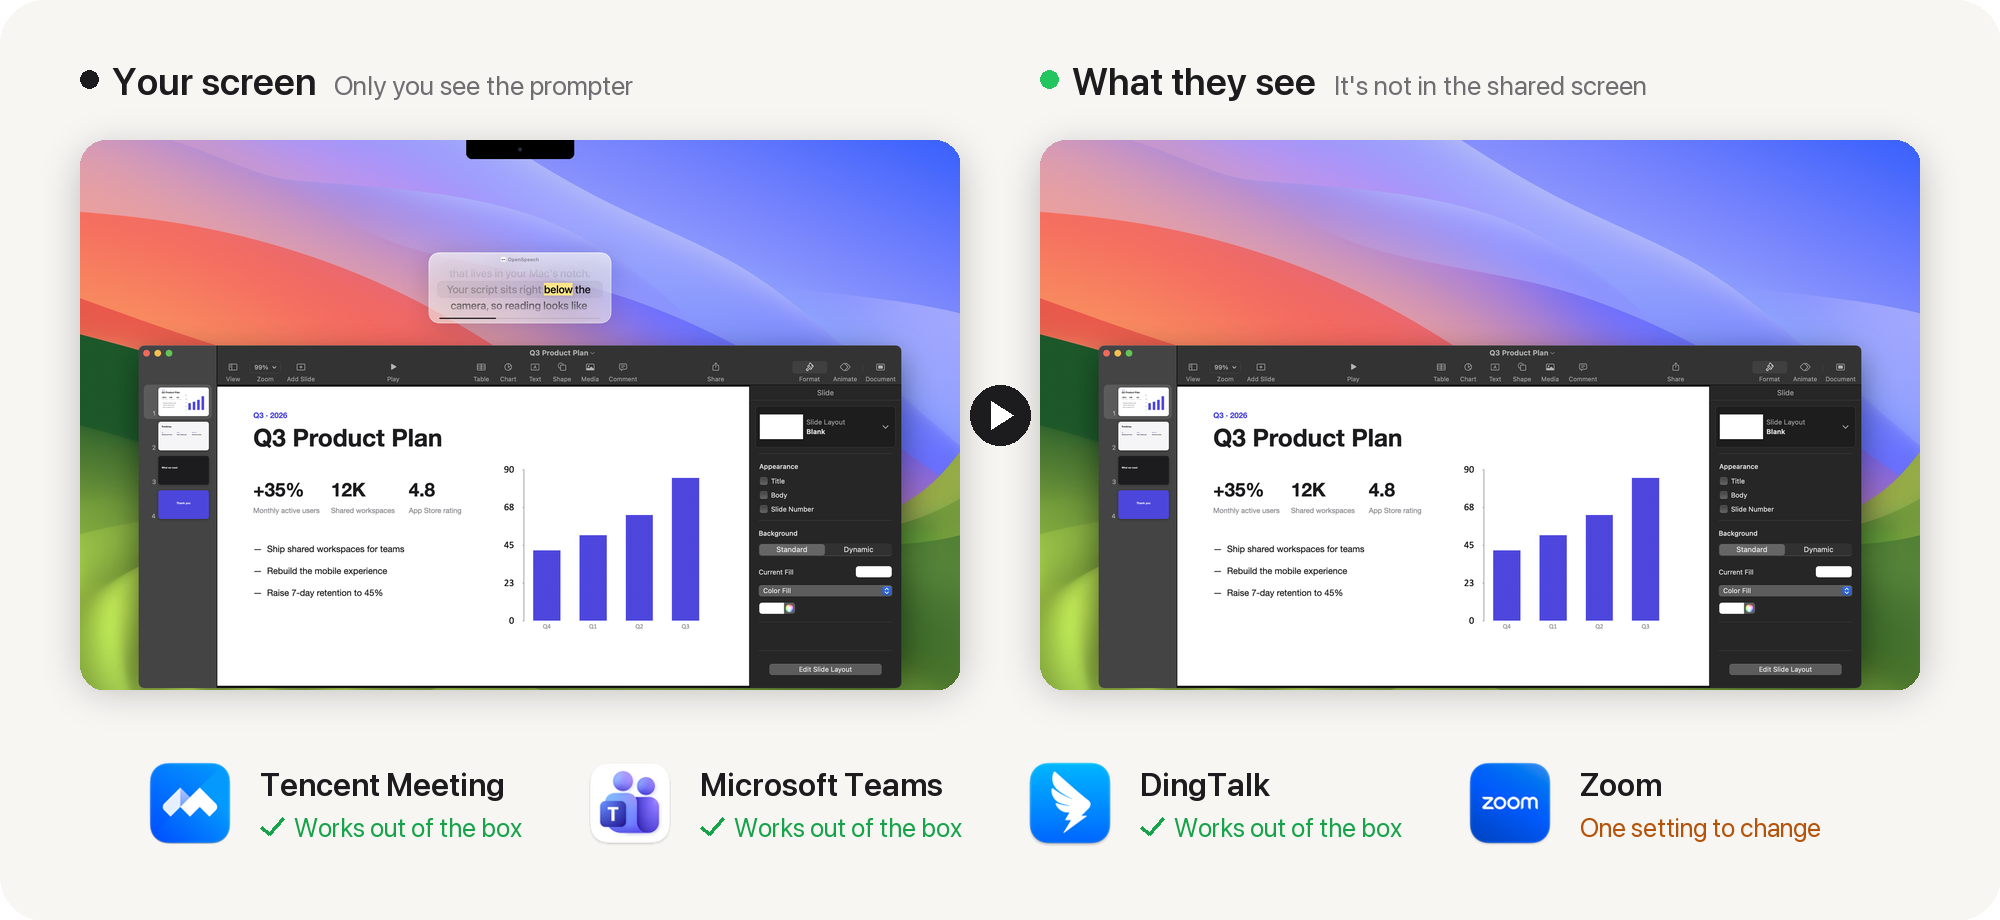
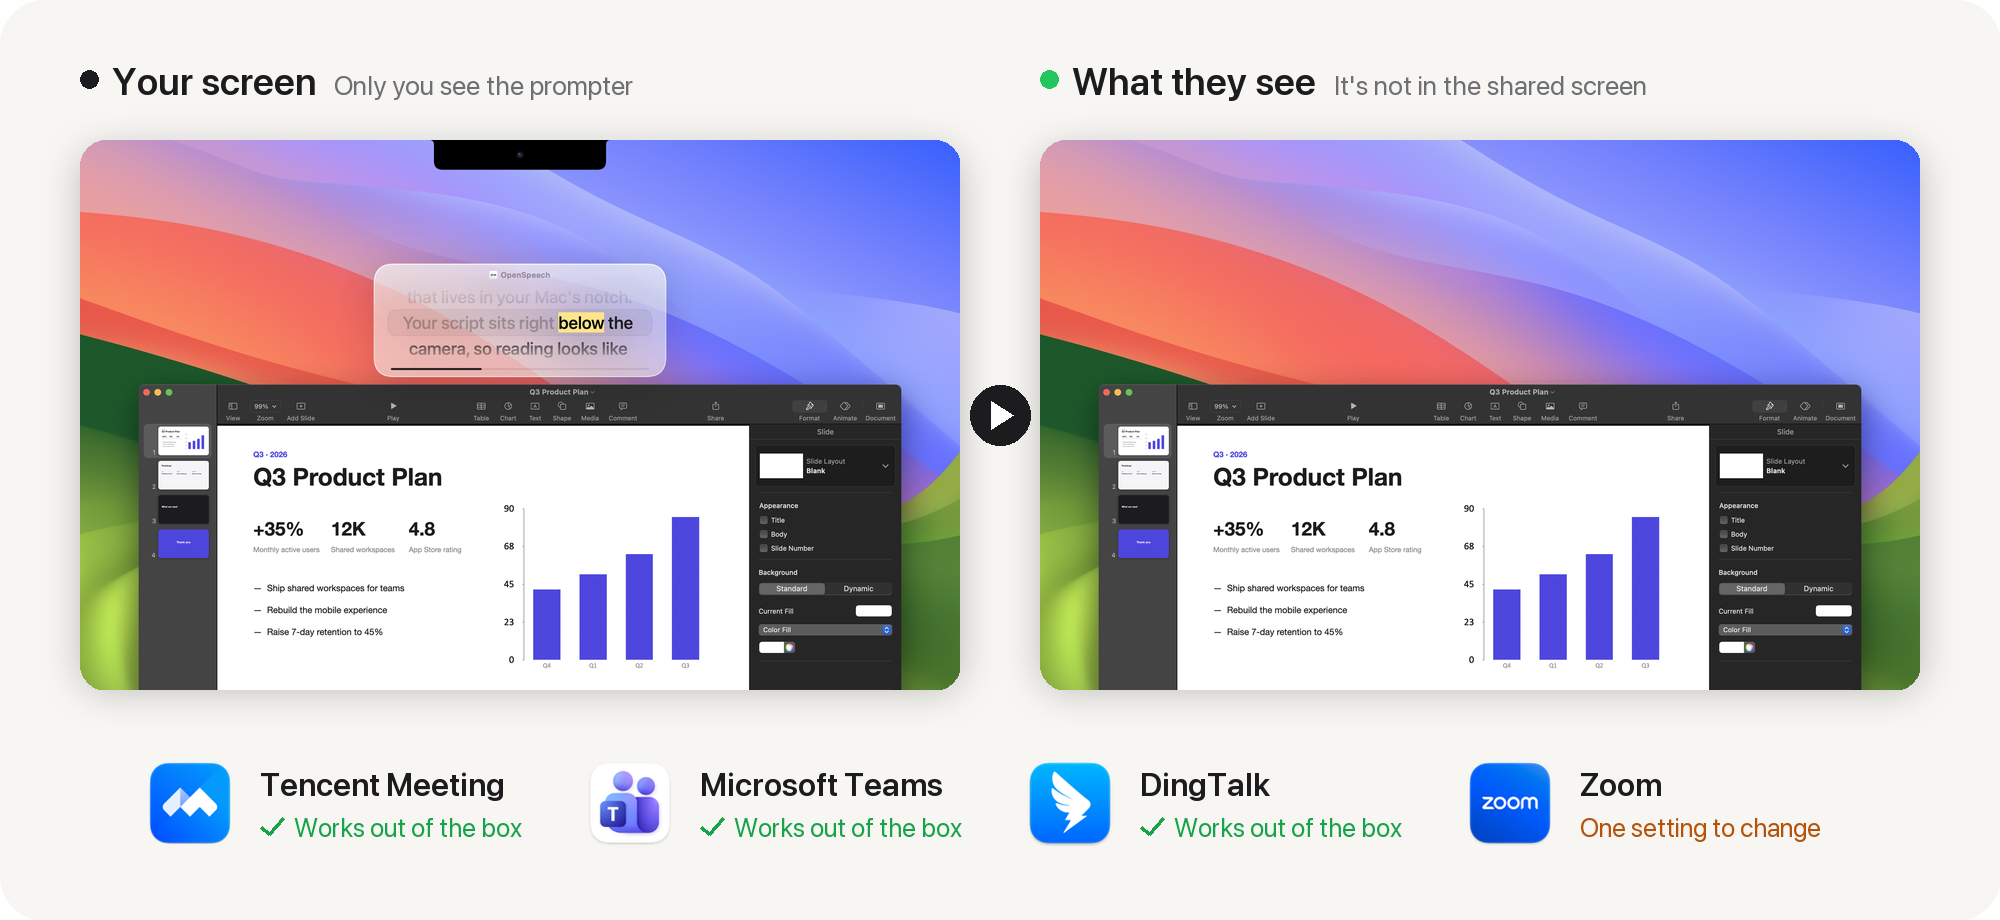
README images: zoom in, keep the card close under the notch
Render a narrower frame so the card is readable, and shorten the
card-to-notch distance in proportion to the frame width
(readmeZoom), so it still looks the way it sits on a full screen.

Changed region(s): [[0.062, 0.2739, 0.465, 0.7609], [0.527, 0.3652, 0.961, 0.7609], [0.217, 0.1522, 0.31, 0.1826]]

diff --git a/Sources/ReadmeVideo.swift b/Sources/ReadmeVideo.swift
@@ -131,8 +131,8 @@ enum ReadmeVideo {
         follow.read(zh ? "它不会乱跳等你回到稿子再接着走" : "holds still until you come back", rate: normal, .normal)
         follow.hold(1.4, .normal)
 
-        render(eye, name: "eye", dir: dir, script: pitch, size: CGSize(width: 1800, height: 560), camera: true, annotate: true, pill: false)
-        render(follow, name: "follow", dir: dir, script: pitch, size: CGSize(width: 1800, height: 560), camera: true, annotate: false, pill: true)
+        render(eye, name: "eye", dir: dir, script: pitch, size: CGSize(width: 1000, height: 560), camera: true, annotate: true, pill: false)
+        render(follow, name: "follow", dir: dir, script: pitch, size: CGSize(width: 1000, height: 560), camera: true, annotate: false, pill: true)
     }
 
     @MainActor
@@ -159,6 +159,7 @@ enum ReadmeVideo {
         model.panelSize = size
         model.snapshot = true
         model.hideIsland = true
+        settings.readmeZoom(model: model)
         let card = IslandMetrics.layout(engine: engine, model: model, settings: settings).card ?? .zero
         let store = ScriptStore(inMemory: true)
         let actions = IslandActions(start: {}, openLibrary: {}, importURLs: { _ in }, cycleScript: { _ in }, resetPosition: {})
@@ -184,7 +185,7 @@ enum ReadmeVideo {
                 if pill {
                     MomentPill(moment: m, levels: levels, speed: speed(m), fade: fade)
                         .frame(width: size.width)
-                        .offset(y: card.maxY + 30)
+                        .offset(y: card.maxY + 20)
                 }
             }
             .frame(width: size.width, height: size.height)
@@ -211,15 +212,26 @@ enum ReadmeVideo {
     }
 }
 
+extension PrompterSettings {
+    /// README 的图比整块屏幕窄（相当于放大看）：卡片和刘海按原尺寸画，
+    /// 卡片离刘海的距离按画面宽度等比例缩短，看起来和在整块屏幕上一样贴着镜头
+    func readmeZoom(model: IslandModel, screenWidth: CGFloat = 1800) {
+        let read = IslandMetrics.cardSize(self).readOffset
+        let realTop = IslandMetrics.defaultPosition(model.geo).readY - read
+        let gap = (realTop - model.notch.height) * model.panelSize.width / screenWidth
+        setPosition(CardPosition(dx: 0, readY: model.notch.height + gap + read), for: model.screenKey)
+    }
+}
+
 /// 屏幕顶上的硬件刘海，里面淡淡一颗摄像头，旁边标注 “摄像头”；
 /// annotate 时再画出视线和 “≈ 5°”：卡片正在读的那一行就在镜头下面约 5°。
-/// README 里整块屏幕宽的图会缩小到一半左右显示，所以标注文字画得比界面大
 struct CameraGuide: View {
     let notch: NotchInfo
     let cameraY: CGFloat
     let card: CGRect
     let width: CGFloat
     var annotate = true
+    var labeled = true
 
     var body: some View {
         let x = width / 2
@@ -234,34 +246,38 @@ struct CameraGuide: View {
                 .overlay(Circle().fill(.white.opacity(0.35)).frame(width: 1.6, height: 1.6).offset(x: -1.4, y: -1.4))
                 .position(x: x, y: cameraY)
             // 标注：从镜头拉一条细线到刘海右边
-            Path { p in
-                p.move(to: CGPoint(x: x + 8, y: cameraY))
-                p.addLine(to: CGPoint(x: x + notch.width / 2 + 34, y: cameraY))
-            }
-            .stroke(.white.opacity(0.55), lineWidth: 1.2)
-            Circle().fill(.white.opacity(0.8)).frame(width: 4, height: 4).position(x: x + 8, y: cameraY)
-            Text(tr("摄像头", "Camera"))
-                .font(.system(size: 20, weight: .semibold))
-                .foregroundColor(.white.opacity(0.92))
-                .fixedSize()
-                .frame(width: 160, alignment: .leading)
-                .position(x: x + notch.width / 2 + 44 + 80, y: cameraY)
+            if labeled { label(x) }
             if annotate {
                 Path { p in
-                    p.move(to: CGPoint(x: x, y: notch.height + 8))
-                    p.addLine(to: CGPoint(x: x, y: card.minY - 8))
+                    p.move(to: CGPoint(x: x, y: notch.height + 6))
+                    p.addLine(to: CGPoint(x: x, y: card.minY - 6))
                 }
-                .stroke(.white.opacity(0.6), style: StrokeStyle(lineWidth: 2, dash: [5, 6]))
+                .stroke(.white.opacity(0.6), style: StrokeStyle(lineWidth: 1.5, dash: [4, 5]))
                 Text(tr("≈ 5°，看稿就像在看镜头", "≈ 5° — reading looks like eye contact"))
-                    .font(.system(size: 21, weight: .semibold))
+                    .font(.system(size: 14, weight: .semibold))
                     .foregroundColor(.white)
                     .fixedSize()
-                    .padding(.horizontal, 18).padding(.vertical, 8)
+                    .padding(.horizontal, 12).padding(.vertical, 5)
                     .background(Capsule().fill(.white.opacity(0.16)))
-                    .position(x: x, y: (notch.height + card.minY) / 2 + 4)
+                    .position(x: x, y: (notch.height + card.minY) / 2 + 2)
             }
         }
         .frame(width: width, alignment: .topLeading)
+    }
+
+    @ViewBuilder private func label(_ x: CGFloat) -> some View {
+        Path { p in
+            p.move(to: CGPoint(x: x + 8, y: cameraY))
+            p.addLine(to: CGPoint(x: x + notch.width / 2 + 30, y: cameraY))
+        }
+        .stroke(.white.opacity(0.55), lineWidth: 1)
+        Circle().fill(.white.opacity(0.8)).frame(width: 4, height: 4).position(x: x + 8, y: cameraY)
+        Text(tr("摄像头", "Camera"))
+            .font(.system(size: 14, weight: .semibold))
+            .foregroundColor(.white.opacity(0.92))
+            .fixedSize()
+            .frame(width: 120, alignment: .leading)
+            .position(x: x + notch.width / 2 + 36 + 60, y: cameraY)
     }
 }
 
@@ -273,33 +289,33 @@ private struct MomentPill: View {
     let fade: Double
 
     var body: some View {
-        HStack(spacing: 18) {
-            HStack(alignment: .center, spacing: 4) {
+        HStack(spacing: 13) {
+            HStack(alignment: .center, spacing: 3) {
                 ForEach(levels.indices, id: \.self) { i in
                     Capsule()
                         .fill(moment.speaking ? Theme.ink : Theme.ink3.opacity(0.5))
-                        .frame(width: 5, height: 5 + 24 * levels[i])
+                        .frame(width: 3.5, height: 3.5 + 16 * levels[i])
                 }
             }
-            .frame(width: 40, height: 30)
-            HStack(spacing: 12) {
+            .frame(width: 28, height: 20)
+            HStack(spacing: 9) {
                 Text(moment.said).foregroundColor(Theme.ink)
-                Image(systemName: "arrow.right").font(.system(size: 18, weight: .bold)).foregroundColor(Theme.ink3)
+                Image(systemName: "arrow.right").font(.system(size: 13, weight: .bold)).foregroundColor(Theme.ink3)
                 Text(moment.result).foregroundColor(Theme.ink2)
             }
-            .font(.system(size: 26, weight: .semibold))
+            .font(.system(size: 17, weight: .semibold))
             .opacity(fade)
-            Rectangle().fill(Theme.ink3.opacity(0.35)).frame(width: 1.5, height: 28)
+            Rectangle().fill(Theme.ink3.opacity(0.35)).frame(width: 1, height: 18)
             Text(speed)
-                .font(.system(size: 22, weight: .semibold, design: .rounded))
+                .font(.system(size: 15, weight: .semibold, design: .rounded))
                 .monospacedDigit()
                 .foregroundColor(Theme.ink2)
-                .frame(minWidth: 110)
+                .frame(minWidth: 74)
                 .opacity(fade)
         }
-        .padding(.horizontal, 30)
-        .frame(height: 72)
+        .padding(.horizontal, 20)
+        .frame(height: 48)
         .background(Capsule().fill(Color.white.opacity(0.9)))
-        .shadow(color: .black.opacity(0.18), radius: 22, y: 10)
+        .shadow(color: .black.opacity(0.18), radius: 16, y: 7)
     }
 }

diff --git a/Sources/Snapshot.swift b/Sources/Snapshot.swift
@@ -161,7 +161,7 @@ enum ReadmeSnapshot {
 
         func render(_ name: String, w: CGFloat, h: CGFloat, cursor: Double, style: DisplayStyle = .glass,
                     cheat: Bool = false, cardHovering: Bool = false, showCard: Bool = true,
-                    transparent: Bool = false, lens: Bool = false) {
+                    transparent: Bool = false, lens: Bool = false, lensLabel: Bool = true) {
             let settings = PrompterSettings(defaults: defaults)
             settings.displayStyle = style
             settings.cheatSheet = cheat
@@ -176,6 +176,7 @@ enum ReadmeSnapshot {
             model.panelSize = CGSize(width: w, height: h)
             model.snapshot = true
             model.hideIsland = true
+            settings.readmeZoom(model: model)
             model.cardHovering = cardHovering
             let s = ScriptStore(inMemory: true)
             let actions = IslandActions(start: {}, openLibrary: {}, importURLs: { _ in }, cycleScript: { _ in }, resetPosition: {})
@@ -185,7 +186,7 @@ enum ReadmeSnapshot {
                                    startPoint: .topLeading, endPoint: .bottomTrailing)
                 }
                 if lens, let card = IslandMetrics.layout(engine: engine, model: model, settings: settings).card {
-                    CameraGuide(notch: notch, cameraY: geo.cameraY, card: card, width: w, annotate: false)
+                    CameraGuide(notch: notch, cameraY: geo.cameraY, card: card, width: w, annotate: false, labeled: lensLabel)
                 }
                 if showCard {
                     IslandRootView(model: model, engine: engine, store: s, settings: settings, actions: actions, acceptsDrop: false)
@@ -200,11 +201,10 @@ enum ReadmeSnapshot {
             }
         }
 
-        // 首图 / 提词卡片：停在 “OpenSpeech 是什么” 这一段。首图用整块屏幕的宽度（14 寸 MacBook Pro 1800 pt），
-        // 卡片和摄像头的距离、占屏幕的比例都和真实默认位置一样
+        // 首图：停在 “OpenSpeech 是什么” 这一段。画面比整块屏幕窄（放大看），卡片离刘海的距离按比例缩短（readmeZoom）
         let whatItIs = zh ? unit("摄像头") : unit("right below the camera", offset: 1)
-        render("hero", w: 1800, h: 640, cursor: whatItIs, cheat: true, lens: true)
-        // 只有提词卡片、背景透明、整块屏幕大小：按真实位置叠到桌面截图上（共享屏幕对比图用）
-        render("card-only", w: 1800, h: 1125, cursor: whatItIs, transparent: true)
+        render("hero", w: 1280, h: 640, cursor: whatItIs, cheat: true, lens: true)
+        // 只有刘海和提词卡片、背景透明：放大 1.6 倍叠到 1800 宽的桌面截图上（共享屏幕对比图用）
+        render("card-only", w: 1125, h: 703, cursor: whatItIs, transparent: true, lens: true, lensLabel: false)
     }
 }
